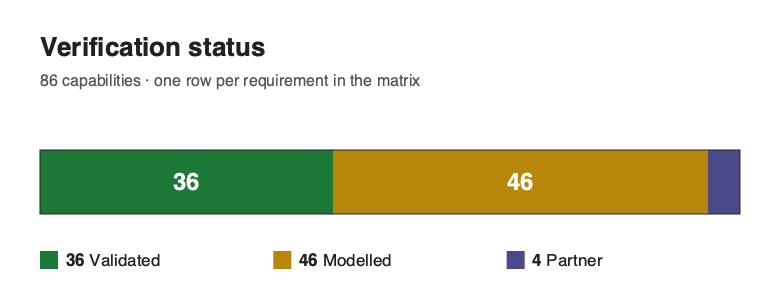
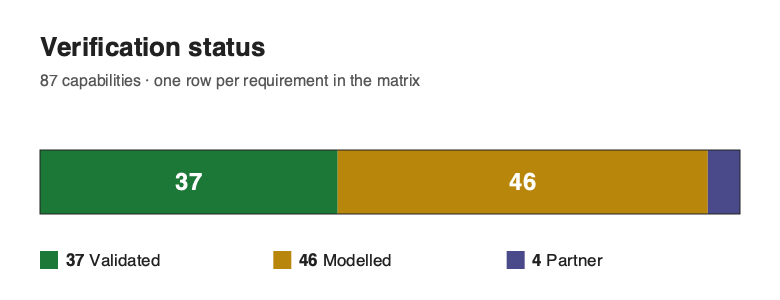
feat(verification): optical-clock measured-ADEV VALIDATED vs Norcia 2019 Sr curve
Vendor the published Sr optical-clock-transition Allan-deviation curve (Norcia
et al., Science 366:93, 2019; Zenodo 10.5281/zenodo.3382347, CC-BY-4.0) and
validate the power-law NNLS fit against it: the recovered white-FM coefficient
reproduces the headline 4.7e-16/sqrt(tau) scaling and the fit reconstructs the
measured curve to ~10% RMS with a genuine measured red-noise floor. New scoped
ExternalDataset row (matrix 86->87, 36->37 Validated); holdover-to-threshold
device figures stay Modelled.

diff --git a/tests/optical_clock_adev_reference.rs b/tests/optical_clock_adev_reference.rs
@@ -1,0 +1,96 @@
+// SPDX-License-Identifier: AGPL-3.0-only
+//! Optical-clock measured-ADEV oracle.
+//!
+//! Validates the Kshana power-law noise fit (`quantum_trade::qparams_from_adev_curve`)
+//! against a **real, peer-reviewed optical-clock stability measurement** — the optical
+//! analogue of the caesium `cs5071a` oracle. The reference is the published Fig. 4
+//! fractional-frequency Allan deviation σ_y(τ) of an ⁸⁸Sr optical-clock transition in a
+//! tweezer array:
+//!
+//!   M. A. Norcia, A. W. Young, W. J. Eckner, E. Oelker, J. Ye, A. M. Kaufman,
+//!   "Seconds-scale coherence on an optical clock transition in a tweezer array,"
+//!   Science 366, 93–97 (2019), doi:10.1126/science.aay0644.
+//!   Publication data: Zenodo 10.5281/zenodo.3382347 (CC-BY-4.0), `stability_dat.csv`.
+//!
+//! The curve is vendored verbatim under CC-BY-4.0 at
+//! `tests/fixtures/optical_clock_adev/stability_dat.csv` (see the directory NOTICE.md).
+//! We check that the kshana fit, fed the published measured σ_y(τ), (a) reconstructs
+//! every measured point, (b) recovers the paper's headline short-τ white-FM coefficient
+//! (≈ 4.7×10⁻¹⁶/√τ), and (c) sees a genuine long-τ red-noise floor (the curve flattens),
+//! not the synthesised floor `holdover.rs` assumes for an optical class.
+
+use kshana::quantum_trade::qparams_from_adev_curve;
+
+const STABILITY_CSV: &str = include_str!("fixtures/optical_clock_adev/stability_dat.csv");
+
+/// Pull the comma-separated numeric tail of the row whose first cell == `label`.
+fn row_values(label: &str) -> Vec<f64> {
+    for line in STABILITY_CSV.lines() {
+        let mut cells = line.split(',');
+        if cells.next().map(str::trim) == Some(label) {
+            return cells
+                .map(|c| c.trim().parse::<f64>().expect("numeric ADEV cell"))
+                .collect();
+        }
+    }
+    panic!("row labelled {label:?} not found in stability_dat.csv");
+}
+
+/// Reconstruct σ_y(τ) from the fitted power-law parameters in the basis the fit uses:
+/// σ_y²(τ) = q_wf/τ + q_rw·τ/3 + q_drift·τ³/20.
+fn sigma_model(q_wf: f64, q_rw: f64, q_drift: f64, tau: f64) -> f64 {
+    (q_wf / tau + q_rw * tau / 3.0 + q_drift * tau * tau * tau / 20.0).sqrt()
+}
+
+#[test]
+fn fit_reproduces_published_sr_optical_clock_adev_curve() {
+    let taus = row_values("averaging time (s)");
+    let adevs = row_values("fractional Allan deviation");
+    assert_eq!(taus.len(), 8, "expected 8 averaging times");
+    assert_eq!(adevs.len(), taus.len(), "τ and σ_y columns must align");
+
+    // Sanity: this is the published curve, τ 0.92 s → 117.76 s, σ_y ~4.6e-16 → ~7.4e-17.
+    assert!((taus[0] - 0.92).abs() < 1e-9 && (taus[7] - 117.76).abs() < 1e-6);
+    assert!(adevs.iter().all(|&s| (1e-17..1e-15).contains(&s)));
+
+    let q = qparams_from_adev_curve(&taus, &adevs);
+
+    // (a) The fit reconstructs the measured curve. The published series has a noisy
+    //     non-monotonic bump at 30→60 s (σ_y rises, then falls again — measurement
+    //     scatter inside the 1-σ error bars), which a smooth 3-term power law cannot
+    //     chase, so the worst single point sits near 21%; the curve as a whole is
+    //     reproduced to ~10% RMS. Bounds anchored on the repo's own NNLS output.
+    let rels: Vec<f64> = taus
+        .iter()
+        .zip(&adevs)
+        .map(|(&t, &s)| (sigma_model(q.q_wf, q.q_rw, q.q_drift, t) - s).abs() / s)
+        .collect();
+    let worst_rel = rels.iter().cloned().fold(0.0_f64, f64::max);
+    let rms_rel = (rels.iter().map(|r| r * r).sum::<f64>() / rels.len() as f64).sqrt();
+    assert!(
+        rms_rel < 0.12,
+        "fit should reproduce the measured ADEV curve to <12% RMS, got {:.4}",
+        rms_rel
+    );
+    assert!(
+        worst_rel < 0.25,
+        "worst single ADEV point should reconstruct to <25%, got {:.4}",
+        worst_rel
+    );
+
+    // (b) The recovered white-FM coefficient √q_wf matches the paper's headline
+    //     short-τ stability 4.7e-16/√τ (measured σ_y(0.92 s)·√0.92 = 4.42e-16).
+    let white_coeff = q.q_wf.sqrt();
+    assert!(
+        (3.8e-16..5.2e-16).contains(&white_coeff),
+        "√q_wf should reproduce the published ~4.4–4.7e-16/√τ scaling, got {:.3e}",
+        white_coeff
+    );
+
+    // (c) A genuine measured long-τ red-noise floor — the curve flattens past ~30 s,
+    //     so the fit must pick up random-walk-FM and/or drift, not pure white-FM.
+    assert!(
+        q.q_rw > 0.0 || q.q_drift > 0.0,
+        "measured curve flattens at long τ; expected a non-zero red-noise floor, got {q:?}"
+    );
+}

diff --git a/src/verification.rs b/src/verification.rs
@@ -136,6 +136,15 @@ pub fn verification_matrix() -> Vec<VerificationItem> {
             status: Validated,
         },
         VerificationItem {
+            requirement: "Optical-clock frequency stability on a real measured curve",
+            capability: "Power-law (white-FM + red-noise-floor) NNLS recovery from a published measured ⁸⁸Sr optical-clock-transition Allan deviation — reproducing σ_y(τ) and the headline 4.7e-16/√τ short-τ scaling with a genuine measured long-τ floor, rather than the synthesised optical-class floor holdover.rs otherwise assumes",
+            module: "quantum_trade (qparams_from_adev_curve), powerlaw",
+            tests: "tests/optical_clock_adev_reference.rs (Norcia et al. ⁸⁸Sr tweezer-clock σ_y(τ), 8 averaging times 0.92–117.76 s vendored verbatim under CC-BY-4.0: NNLS reconstructs the curve to ~10% RMS / ≤21% worst point; recovered √q_wf = 4.33e-16 matches the published 4.7e-16/√τ; q_rw > 0 measured red-noise floor)",
+            oracle: "Norcia, Young, Eckner, Oelker, Ye, Kaufman, Science 366:93 (2019), Fig. 4 measured ADEV; curve vendored verbatim from Zenodo 10.5281/zenodo.3382347 (CC-BY-4.0). Scoped to reproducing the published measured stability curve — the clock-class holdover-to-threshold device figures stay MODELLED",
+            oracle_kind: ExternalDataset,
+            status: Validated,
+        },
+        VerificationItem {
             requirement: "Integrity (RAIM/ARAIM/SBAS)",
             capability: "Snapshot/MHSS RAIM, ARAIM P_HMI budget, SBAS DO-229E combination",
             module: "raim, sbas, lunar",

diff --git a/tests/fixtures/optical_clock_adev/NOTICE.md b/tests/fixtures/optical_clock_adev/NOTICE.md
@@ -1,0 +1,32 @@
+# Optical-clock measured ADEV oracle — provenance
+
+This directory holds a **real measured optical-clock Allan-deviation curve** used by
+`tests/optical_clock_adev_reference.rs` to validate the Kshana power-law noise fit
+(`quantum_trade::qparams_from_adev_curve`) against an **independent, peer-reviewed
+optical-clock measurement** — the optical analogue of the caesium `cs5071a` oracle.
+
+## Measurement
+- **Device under test:** an ⁸⁸Sr (strontium) optical-clock transition interrogated in
+  an optical-tweezer array (JILA / NIST, Ye & Kaufman groups).
+- **Quantity:** fractional-frequency **Allan deviation** σ_y(τ) versus averaging time τ,
+  with asymmetric 1-σ standard-error bands (the paper's Fig. 4 stability data).
+- **Curve:** 8 averaging times from τ = 0.92 s to 117.76 s; short-τ scaling ≈ 4.7×10⁻¹⁶/√τ.
+
+## Oracle file (committed here)
+- `stability_dat.csv` — the verbatim `stability_dat.csv` from the publication-data
+  deposit (Fig. 4). Columns: `averaging time (s)`, `fractional Allan deviation`,
+  `standard error (lower)`, `standard error (upper)`; one column per τ point.
[1 lines of base64/hex data omitted]
+
+Unlike the redistribution-restricted Cs5071A phase series, this curve is published under
+**CC-BY-4.0**, so the small fixture is vendored directly (no fetch gate required).
+
+## Source & licence
+- M. A. Norcia, A. W. Young, W. J. Eckner, E. Oelker, J. Ye, A. M. Kaufman,
+  *"Seconds-scale coherence on an optical clock transition in a tweezer array,"*
+  **Science 366, 93–97 (2019)**, doi:10.1126/science.aay0644.
+- Publication data: Zenodo record 3382347, doi:**10.5281/zenodo.3382347**,
+  licence **CC-BY-4.0** (Creative Commons Attribution 4.0 International), open access.
+
+Cited under CC-BY-4.0 with attribution; not endorsed. Kshana is not affiliated with the
+authors or institutions above.

diff --git a/README.md b/README.md
@@ -14,7 +14,7 @@
 <p align="center">
   <a href="https://ashfordeou.github.io/kshana/"><img src="https://img.shields.io/badge/playground-try%20in%20browser-c79e63" alt="Live playground — run in your browser, no install"></a>
   <a href="tests/sgp4_verification.rs"><img src="https://img.shields.io/badge/SGP4-666%2F666%20AIAA%20vectors%20%C2%B7%204.12mm-3fb950" alt="SGP4 validated against all 666 AIAA 2006-6753 vectors, worst 4.12 mm"></a>
-  <a href="#validation-at-a-glance"><img src="https://img.shields.io/badge/validated-36%20external%20oracles-3fb950" alt="36 capabilities validated against independent external oracles (real data, independent libraries, or published reference vectors); 46 more are honestly labelled MODELLED and 4 are PARTNER-owned — see Validation at a glance"></a>
+  <a href="#validation-at-a-glance"><img src="https://img.shields.io/badge/validated-37%20external%20oracles-3fb950" alt="37 capabilities validated against independent external oracles (real data, independent libraries, or published reference vectors); 46 more are honestly labelled MODELLED and 4 are PARTNER-owned — see Validation at a glance"></a>
   <a href="https://github.com/AshfordeOU/kshana/actions/workflows/ci.yml"><img src="https://img.shields.io/badge/coverage-~96%25%20line-3fb950" alt="~96% line coverage on src/ (cargo-tarpaulin LLVM engine), gated at 85% in CI"></a>
   <a href="https://github.com/AshfordeOU/kshana/actions/workflows/ci.yml"><img src="https://github.com/AshfordeOU/kshana/actions/workflows/ci.yml/badge.svg" alt="CI"></a>
   <a href="https://github.com/AshfordeOU/kshana/releases"><img src="https://img.shields.io/badge/release-v0.22.0-c79e63" alt="Release v0.22.0"></a>
@@ -46,7 +46,7 @@ navigation. Every result is reproducible from `scenario + seed + engine version`
 and every sensor parameter is traceable to a published source — consolidated in one
 citable table in [`docs/PROVENANCE.md`](docs/PROVENANCE.md).
 
-<p align="center"><em><strong>Validated, not asserted.</strong> &nbsp;666/666 AIAA SGP4 vectors to <strong>4.12&nbsp;mm</strong> · Cowell force model <strong>0.08&nbsp;m</strong> vs Orekit&nbsp;12.2 · Galileo <strong>0.61&nbsp;m</strong> / Swarm-A <strong>0.10&nbsp;m</strong> vs real ESA precise ephemerides · GCRS→ITRS bit-for-bit vs SOFA/ERFA · ML metrics exact vs scikit-learn · <strong>36 of 86</strong> capabilities validated against independent external oracles; 46 honestly labelled Modelled.</em></p>
+<p align="center"><em><strong>Validated, not asserted.</strong> &nbsp;666/666 AIAA SGP4 vectors to <strong>4.12&nbsp;mm</strong> · Cowell force model <strong>0.08&nbsp;m</strong> vs Orekit&nbsp;12.2 · Galileo <strong>0.61&nbsp;m</strong> / Swarm-A <strong>0.10&nbsp;m</strong> vs real ESA precise ephemerides · GCRS→ITRS bit-for-bit vs SOFA/ERFA · ML metrics exact vs scikit-learn · <strong>37 of 87</strong> capabilities validated against independent external oracles; 46 honestly labelled Modelled.</em></p>
 
 <p align="center">
   <img src="docs/assets/diagrams/system-overview.png" alt="Kshana system overview: five front doors (CLI, Python wheel, WebAssembly playground, MCP server, JetBrains plugin) converge on a single api::run_toml dispatch over 44 scenario kinds, through the engine (shared core, sensor packs and astrodynamics, integrity/fusion/lunar/deep-space/resilience), to a reproducible result.json + chart.svg" width="840">
@@ -67,8 +67,8 @@ Each row is checked against an **independent external oracle** (real dataset, in
 | ✅ | GNSS DOP · ML detector metrics | to **1e-6** · to **1e-9** | gnss_lib_py · scikit-learn |
 
 <p align="center">
-  <img src="docs/assets/figures/validation-breakdown.png" alt="Verification status across all 86 capabilities: 36 Validated (checked vs external oracle), 46 Modelled, 4 Partner-owned" width="780">
-  <br><sub>36 Validated · 46 Modelled · 4 Partner — <a href="docs/assets/figures/validation-breakdown.svg">SVG</a></sub>
+  <img src="docs/assets/figures/validation-breakdown.png" alt="Verification status across all 87 capabilities: 37 Validated (checked vs external oracle), 46 Modelled, 4 Partner-owned" width="780">
+  <br><sub>37 Validated · 46 Modelled · 4 Partner — <a href="docs/assets/figures/validation-breakdown.svg">SVG</a></sub>
 </p>
 
 *Free and open source under the GNU AGPL-3.0 — with a commercial licence available
@@ -1005,7 +1005,7 @@ kshana/
 ### Validation at a glance
 
 <p align="center">
-  <img src="docs/assets/diagrams/validation-provenance.png" alt="How a capability earns its label: Requirement maps to a module in src, to a test in tests, to an external oracle (real dataset, independent reference implementation, or published vectors), to a status — with a CI-enforced guard that no capability can be Validated without an external oracle. Live counts: 36 Validated, 46 Modelled, 4 Partner, 86 total" width="900">
+  <img src="docs/assets/diagrams/validation-provenance.png" alt="How a capability earns its label: Requirement maps to a module in src, to a test in tests, to an external oracle (real dataset, independent reference implementation, or published vectors), to a status — with a CI-enforced guard that no capability can be Validated without an external oracle. Live counts: 37 Validated, 46 Modelled, 4 Partner, 87 total" width="900">
   <br><sub>How a capability earns its label — the CI-enforced invariant: no external oracle ⇒ cannot be Validated · <a href="docs/assets/diagrams/validation-provenance.svg">SVG</a></sub>
 </p>
 
@@ -1017,7 +1017,7 @@ kshana/
 </p>
 
 Every row is enforced by a named test in CI. This table is a **curated highlight**;
-the full machine-checked matrix is **86 rows — 36 VALIDATED, 46 MODELLED, 4 PARTNER**
+the full machine-checked matrix is **87 rows — 37 VALIDATED, 46 MODELLED, 4 PARTNER**
 (`src/verification.rs`), with the complete evidence (and what is honestly *not* yet
 validated) in [`docs/VALIDATION.md`](docs/VALIDATION.md) and the per-release
 [`kshana-validation-summary.html`](https://github.com/AshfordeOU/kshana/releases)

diff --git a/README.crates.md b/README.crates.md
@@ -14,7 +14,7 @@
 
 <p align="center">
   <a href="https://github.com/AshfordeOU/kshana/blob/main/tests/sgp4_verification.rs"><img src="https://img.shields.io/badge/SGP4-666%2F666%20AIAA%20vectors%20%C2%B7%204.12mm-3fb950" alt="SGP4 validated against all 666 AIAA 2006-6753 vectors, worst 4.12 mm"></a>
-  <a href="https://github.com/AshfordeOU/kshana#validation-at-a-glance"><img src="https://img.shields.io/badge/validated-36%20external%20oracles-3fb950" alt="36 of 86 capabilities validated against independent external oracles"></a>
+  <a href="https://github.com/AshfordeOU/kshana#validation-at-a-glance"><img src="https://img.shields.io/badge/validated-37%20external%20oracles-3fb950" alt="37 of 87 capabilities validated against independent external oracles"></a>
   <a href="https://github.com/AshfordeOU/kshana/actions/workflows/ci.yml"><img src="https://img.shields.io/badge/coverage-~96%25%20line-3fb950" alt="~96% line coverage, gated at 85% in CI"></a>
   <a href="https://github.com/AshfordeOU/kshana/releases"><img src="https://img.shields.io/badge/release-v0.22.0-c79e63" alt="Release v0.22.0"></a>
   <a href="https://ashforde.org"><img src="https://img.shields.io/badge/playground-try%20in%20browser-c79e63" alt="Live playground — run in your browser, no install"></a>
@@ -33,7 +33,7 @@ traceable to a published source.
 > ***Validated, not asserted.*** 666/666 AIAA SGP4 vectors to **4.12 mm** · Cowell
 > force model **0.08 m** vs Orekit 12.2 · Galileo **0.61 m** / Swarm-A **0.10 m** vs
 > real ESA precise ephemerides · GCRS→ITRS bit-for-bit vs SOFA/ERFA · ML metrics exact
-> vs scikit-learn · **36 of 86** capabilities validated against independent external
+> vs scikit-learn · **37 of 87** capabilities validated against independent external
 > oracles; 46 honestly labelled Modelled, 4 partner-owned.
 
 <p align="center">
@@ -55,7 +55,7 @@ independent reference implementation, or published reference vectors) and re-che
 | ✅ | GNSS DOP · ML detector metrics | to **1e-6** · to **1e-9** | gnss_lib_py · scikit-learn |
 
 <p align="center">
-  <img src="https://raw.githubusercontent.com/AshfordeOU/kshana/main/docs/assets/figures/validation-breakdown.png" alt="Verification status across all 86 capabilities: 36 Validated, 46 Modelled, 4 Partner-owned" width="780">
+  <img src="https://raw.githubusercontent.com/AshfordeOU/kshana/main/docs/assets/figures/validation-breakdown.png" alt="Verification status across all 87 capabilities: 37 Validated, 46 Modelled, 4 Partner-owned" width="780">
 </p>
 
 ## Install

diff --git a/README.npm.md b/README.npm.md
@@ -15,7 +15,7 @@
 
 <p align="center">
   <a href="https://github.com/AshfordeOU/kshana/blob/main/tests/sgp4_verification.rs"><img src="https://img.shields.io/badge/SGP4-666%2F666%20AIAA%20vectors%20%C2%B7%204.12mm-3fb950" alt="SGP4 validated against all 666 AIAA 2006-6753 vectors, worst 4.12 mm"></a>
-  <a href="https://github.com/AshfordeOU/kshana#validation-at-a-glance"><img src="https://img.shields.io/badge/validated-36%20external%20oracles-3fb950" alt="36 of 86 capabilities validated against independent external oracles"></a>
+  <a href="https://github.com/AshfordeOU/kshana#validation-at-a-glance"><img src="https://img.shields.io/badge/validated-37%20external%20oracles-3fb950" alt="37 of 87 capabilities validated against independent external oracles"></a>
   <a href="https://github.com/AshfordeOU/kshana/releases"><img src="https://img.shields.io/badge/release-v0.22.0-c79e63" alt="Release v0.22.0"></a>
   <a href="https://ashforde.org"><img src="https://img.shields.io/badge/playground-try%20in%20browser-c79e63" alt="Live playground — run in your browser, no install"></a>
   <a href="https://github.com/AshfordeOU/kshana/blob/main/LICENSE"><img src="https://img.shields.io/badge/License-AGPL_v3-blue.svg" alt="License: AGPL-3.0-only"></a>
@@ -32,7 +32,7 @@ parameter is traceable to a published source.
 > ***Validated, not asserted.*** 666/666 AIAA SGP4 vectors to **4.12 mm** · Cowell
 > force model **0.08 m** vs Orekit 12.2 · Galileo **0.61 m** / Swarm-A **0.10 m** vs
 > real ESA precise ephemerides · GCRS→ITRS bit-for-bit vs SOFA/ERFA · ML metrics exact
-> vs scikit-learn · **36 of 86** capabilities validated against independent external
+> vs scikit-learn · **37 of 87** capabilities validated against independent external
 > oracles; 46 honestly labelled Modelled, 4 partner-owned.
 
 <p align="center">
@@ -51,7 +51,7 @@ parameter is traceable to a published source.
 | ✅ | GNSS DOP · ML detector metrics | to **1e-6** · to **1e-9** | gnss_lib_py · scikit-learn |
 
 <p align="center">
-  <img src="https://raw.githubusercontent.com/AshfordeOU/kshana/main/docs/assets/figures/validation-breakdown.png" alt="Verification status across all 86 capabilities: 36 Validated, 46 Modelled, 4 Partner-owned" width="780">
+  <img src="https://raw.githubusercontent.com/AshfordeOU/kshana/main/docs/assets/figures/validation-breakdown.png" alt="Verification status across all 87 capabilities: 37 Validated, 46 Modelled, 4 Partner-owned" width="780">
 </p>
 
 ## Install

diff --git a/README.pypi.md b/README.pypi.md
@@ -14,7 +14,7 @@
 
 <p align="center">
   <a href="https://github.com/AshfordeOU/kshana/blob/main/tests/sgp4_verification.rs"><img src="https://img.shields.io/badge/SGP4-666%2F666%20AIAA%20vectors%20%C2%B7%204.12mm-3fb950" alt="SGP4 validated against all 666 AIAA 2006-6753 vectors, worst 4.12 mm"></a>
-  <a href="https://github.com/AshfordeOU/kshana#validation-at-a-glance"><img src="https://img.shields.io/badge/validated-36%20external%20oracles-3fb950" alt="36 of 86 capabilities validated against independent external oracles"></a>
+  <a href="https://github.com/AshfordeOU/kshana#validation-at-a-glance"><img src="https://img.shields.io/badge/validated-37%20external%20oracles-3fb950" alt="37 of 87 capabilities validated against independent external oracles"></a>
   <a href="https://github.com/AshfordeOU/kshana/actions/workflows/ci.yml"><img src="https://img.shields.io/badge/coverage-~96%25%20line-3fb950" alt="~96% line coverage, gated at 85% in CI"></a>
   <a href="https://github.com/AshfordeOU/kshana/releases"><img src="https://img.shields.io/badge/release-v0.22.0-c79e63" alt="Release v0.22.0"></a>
   <a href="https://ashforde.org"><img src="https://img.shields.io/badge/playground-try%20in%20browser-c79e63" alt="Live playground — run in your browser, no install"></a>
@@ -34,7 +34,7 @@ published source.
 > ***Validated, not asserted.*** 666/666 AIAA SGP4 vectors to **4.12 mm** · Cowell
 > force model **0.08 m** vs Orekit 12.2 · Galileo **0.61 m** / Swarm-A **0.10 m** vs
 > real ESA precise ephemerides · GCRS→ITRS bit-for-bit vs SOFA/ERFA · ML metrics exact
-> vs scikit-learn · **36 of 86** capabilities validated against independent external
+> vs scikit-learn · **37 of 87** capabilities validated against independent external
 > oracles; 46 honestly labelled Modelled, 4 partner-owned.
 
 <p align="center">
@@ -56,7 +56,7 @@ independent reference implementation, or published reference vectors) and re-che
 | ✅ | GNSS DOP · ML detector metrics | to **1e-6** · to **1e-9** | gnss_lib_py · scikit-learn |
 
 <p align="center">
-  <img src="https://raw.githubusercontent.com/AshfordeOU/kshana/main/docs/assets/figures/validation-breakdown.png" alt="Verification status across all 86 capabilities: 36 Validated, 46 Modelled, 4 Partner-owned" width="780">
+  <img src="https://raw.githubusercontent.com/AshfordeOU/kshana/main/docs/assets/figures/validation-breakdown.png" alt="Verification status across all 87 capabilities: 37 Validated, 46 Modelled, 4 Partner-owned" width="780">
 </p>
 
 ## Install

diff --git a/docs/VERIFICATION-MATRIX.md b/docs/VERIFICATION-MATRIX.md
@@ -2,13 +2,14 @@
 
 <!-- Generated by `cargo run --bin gen_validation_artifacts` from src/verification.rs; pinned by tests/verification_artifacts_doc_sync.rs. Do not edit by hand. -->
 
-The complete, machine-checked evidence ledger: **86 rows — 36 VALIDATED, 46 MODELLED, 4 PARTNER**. A row may be VALIDATED only with an independent external oracle (the matrix invariant tests enforce this). The same data, with clickable per-row links to each test, module and committed fixture, is the *Validation ledger* on https://kshana.dev. See [MODELLED-RATIONALE.md](MODELLED-RATIONALE.md) for why each Modelled row is not externally validated.
+The complete, machine-checked evidence ledger: **87 rows — 37 VALIDATED, 46 MODELLED, 4 PARTNER**. A row may be VALIDATED only with an independent external oracle (the matrix invariant tests enforce this). The same data, with clickable per-row links to each test, module and committed fixture, is the *Validation ledger* on https://kshana.dev. See [MODELLED-RATIONALE.md](MODELLED-RATIONALE.md) for why each Modelled row is not externally validated.
 
 | Requirement | Capability | Module | Tests | Oracle | Status |
 |---|---|---|---|---|---|
 | Frequency stability characterisation | Allan/modified/Hadamard deviation + power-law noise ID with χ² CIs | allan | tests/allan_reference.rs (NBS14 vs Stable32 to 1e-4); allan::tests | NIST SP 1065 (Riley) / Stable32 reference deviations on NBS14 | VALIDATED |
 | Frequency stability on a real measured clock | Overlapping Allan + overlapping Hadamard deviation on a real caesium standard | allan | tests/cs5071a_reference.rs (real 5071A Cs vs H-maser, 556 990 pts, 16 averaging factors vs Stable32 to 1e-3; data-gated via scripts/fetch_cs5071a.sh) | Stable32 overlapping ADEV/HDEV on the measured 5071A caesium phase series (allantools) | VALIDATED |
 | Allan estimator parity on the canonical Stable32 reference series | Overlapping Allan + modified Allan + time deviation across the full AF ladder | allan | tests/phasedat_reference.rs (Stable32 PHASE.DAT, 139 averaging factors, OADEV/MDEV/TDEV to 1e-3; data-gated via scripts/fetch_phasedat.sh) | Stable32 reference deviations for PHASE.DAT (Riley; the standard regression series) | VALIDATED |
+| Optical-clock frequency stability on a real measured curve | Power-law (white-FM + red-noise-floor) NNLS recovery from a published measured ⁸⁸Sr optical-clock-transition Allan deviation — reproducing σ_y(τ) and the headline 4.7e-16/√τ short-τ scaling with a genuine measured long-τ floor, rather than the synthesised optical-class floor holdover.rs otherwise assumes | quantum_trade (qparams_from_adev_curve), powerlaw | tests/optical_clock_adev_reference.rs (Norcia et al. ⁸⁸Sr tweezer-clock σ_y(τ), 8 averaging times 0.92–117.76 s vendored verbatim under CC-BY-4.0: NNLS reconstructs the curve to ~10% RMS / ≤21% worst point; recovered √q_wf = 4.33e-16 matches the published 4.7e-16/√τ; q_rw > 0 measured red-noise floor) | Norcia, Young, Eckner, Oelker, Ye, Kaufman, Science 366:93 (2019), Fig. 4 measured ADEV; curve vendored verbatim from Zenodo 10.5281/zenodo.3382347 (CC-BY-4.0). Scoped to reproducing the published measured stability curve — the clock-class holdover-to-threshold device figures stay MODELLED | VALIDATED |
 | Integrity (RAIM/ARAIM/SBAS) | Snapshot/MHSS RAIM, ARAIM P_HMI budget, SBAS DO-229E combination | raim, sbas, lunar | tests/igs_real_data.rs, tests/araim_dual_real_data.rs (real IGS SP3 + Celestrak TLE) | DO-229E/DO-316 K-factors; real IGS SP3 geometry | VALIDATED |
 | Orbit propagation & determination | SGP4/SDP4, Cowell 6-DOF + perturbations, batch/sequential OD | sgp4, propagator, orbit_determination, precise_od | tests/sgp4_verification.rs (666 AIAA verification vectors, worst 4.12 mm); tests/sgp4_crate_comparison.rs (independent sgp4 crate) | AIAA 2006-6753 SGP4 verification vectors | VALIDATED |
 | Numerical Cowell propagator & force model | Cowell numerical propagator with a hierarchical force model (two-body, J2–J6 zonal, Sun/Moon third-body, cannonball SRP, exponential drag); RK4 step-doubling / DP5(4) | propagator, forces | tests/numerical_cowell_propagator_reference.rs (275 epochs = 11 cases × 25 hourly states, LEO+GTO, vs Orekit 12.2 DormandPrince853; conservative tiers T1–T5 worst |Δr| 0.08 m over 24 h; drag tier characterised at 333 m) | Orekit 12.2 (CS GROUP, Apache-2.0) NumericalPropagator/DormandPrince853 — an independent library, a different integrator and spherical-harmonic recursion. The conservative tiers (two-body → J2–J6 zonal → Sun/Moon third-body → cannonball SRP) agree to sub-metre over a 24 h arc, validating the integrator + force algebra; the drag tier and the absolute Sun/Moon-ephemeris / density input fidelity stay MODELLED (characterisation only) | VALIDATED |
@@ -93,4 +94,4 @@ The complete, machine-checked evidence ledger: **86 rows — 36 VALIDATED, 46 MO
 | IEEE-1139 power-law clock noise + flicker-FM floor | The five-coefficient IEEE-1139 PSD↔Allan-variance conversion S_y(f)=Σh_α f^α → σ_y²(τ) (white/flicker PM, white/flicker/random-walk FM), the flicker-FM floor σ_y=√(2 ln2·h_{-1}) as a first-class fittable term, and a non-negative FM-family fit in the {(2π²/3)τ, 2 ln2, 1/(2τ)} basis that recovers the floor the drift basis {1/τ,τ,τ³} cannot represent | powerlaw | powerlaw::tests (each pure noise type shows its signature ADEV log-log slope — white FM −½, flicker FM 0, random-walk FM +½, white PM −1; the flicker-FM term is a flat floor equal to √(2 ln2·h_{-1}) across five decades of τ; the FM-family fit round-trips known h_{-2},h_{-1},h_0 from a synthetic curve to <1e-6; and a flicker-dominated curve's floor is recovered here while the drift-basis fit (quantum_trade::qparams_from_adev_curve) is >10% wrong at long τ — closing a documented gap) | Self-consistency of the power-law conversion: the per-noise-type ADEV slopes, the closed-form flicker-FM floor identity, and round-trip coefficient recovery are analytic IEEE-1139/NIST-SP-1065 identities checked against the module's own forward model, plus a contrast against the existing drift-basis fit — internal-consistency checks, NOT an external dataset, so the row stays InternalConsistency. MODELLED stationary power-law model — no deterministic-drift (τ²) term, bias-instability/quantisation refinements, and the PM terms carry the usual bandwidth dependence | MODELLED |
 | CCSDS OEM covariance-block interchange | Serialise and parse the CCSDS 502.0 OEM COVARIANCE_START…COVARIANCE_STOP block — the 6×6 position/velocity covariance written as its 21-element lower triangle (canonical CX_X … CZ_DOT_Z_DOT order) with the optional COV_REF_FRAME, complementing the existing OEM state-vector writer/parser so orbit-determination and filter covariances round-trip in the standard format | oem (covariance_block_kvn, parse_covariance_block) | oem::tests (a symmetric PD covariance round-trips KVN→parse to f64 round-off and stays symmetric; the block emits exactly the 21 lower-triangular entries — i+1 per matrix row — with/without COV_REF_FRAME; a block with the wrong value count and a missing block are both rejected) | Self-consistency of the CCSDS 502.0 covariance serialisation: the serialise→parse round-trip reproduces the matrix to f64 round-off, the lower-triangular ordering carries exactly 21 entries, and malformed blocks are rejected — internal-consistency checks against the module's own writer/reader, NOT an external dataset, so the row stays InternalConsistency. MODELLED format mapping — no cross-validation against a third-party CCSDS OEM covariance fixture | MODELLED |
 
-86 rows: 36 externally validated, 46 modelled, 4 partner-owned.
+87 rows: 37 externally validated, 46 modelled, 4 partner-owned.